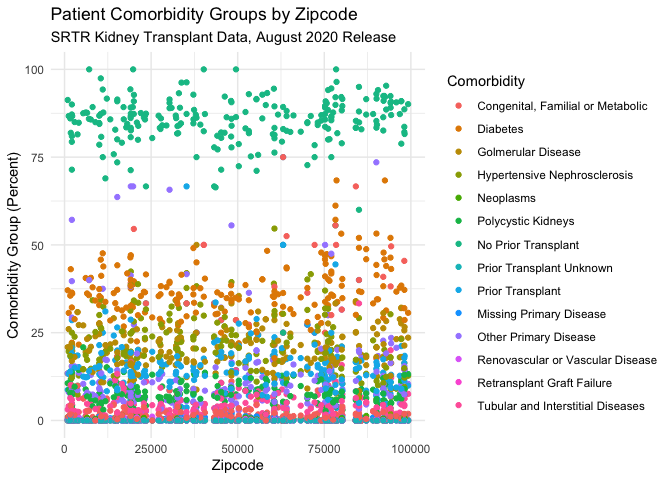
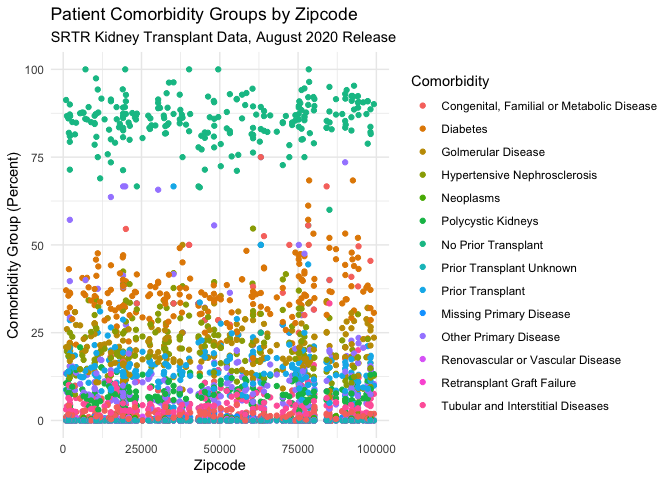
Updated plots.

diff --git a/code/KidneyDataMS.md b/code/KidneyDataMS.md
@@ -695,7 +695,7 @@ plot = df_comorbidities_pivot %>% ggplot(aes(x=zipcode, y =comorbidity_category_
     title = "Patient Comorbidity Groups by Zipcode", subtitle = "SRTR Kidney Transplant Data, August 2020 Release",
     x = "Zipcode",
     y = "Comorbidity Group (Percent)", color = "Comorbidity"
-  ) + theme_minimal() + scale_color_hue(labels = c("Congenital, Familial or Metabolic", "Diabetes", "Golmerular Disease", "Hypertensive Nephrosclerosis", "Neoplasms", "Polycystic Kidneys", "No Prior Transplant", "Prior Transplant Unknown", "Prior Transplant", "Missing Primary Disease", "Other Primary Disease", "Renovascular or Vascular Disease", "Retransplant Graft Failure", "Tubular and Interstitial Diseases"))
+  ) + theme_minimal() + scale_color_hue(labels = c("Congenital, Familial or Metabolic Disease", "Diabetes", "Golmerular Disease", "Hypertensive Nephrosclerosis", "Neoplasms", "Polycystic Kidneys", "No Prior Transplant", "Prior Transplant Unknown", "Prior Transplant", "Missing Primary Disease", "Other Primary Disease", "Renovascular or Vascular Disease", "Retransplant Graft Failure", "Tubular and Interstitial Diseases"))
 plot
 ```
 
@@ -720,7 +720,7 @@ plot = df_blood_type_pivot %>% ggplot(aes(x=zipcode, y =blood_type_category_perc
     title = "Patient Blood Type Groups by Zipcode", subtitle = "SRTR Kidney Transplant Data, August 2020 Release",
     x = "Zipcode",
     y = "Blood Type Group (Percent)", color = "Blood Type"
-  ) + theme_minimal() + scale_color_hue(labels = c("A", "AB", "B", " O", "Unknown"))
+  ) + theme_minimal() + scale_color_hue(labels = c("A", "AB", "B", "O", "Unknown"))
 plot
 ```
 
